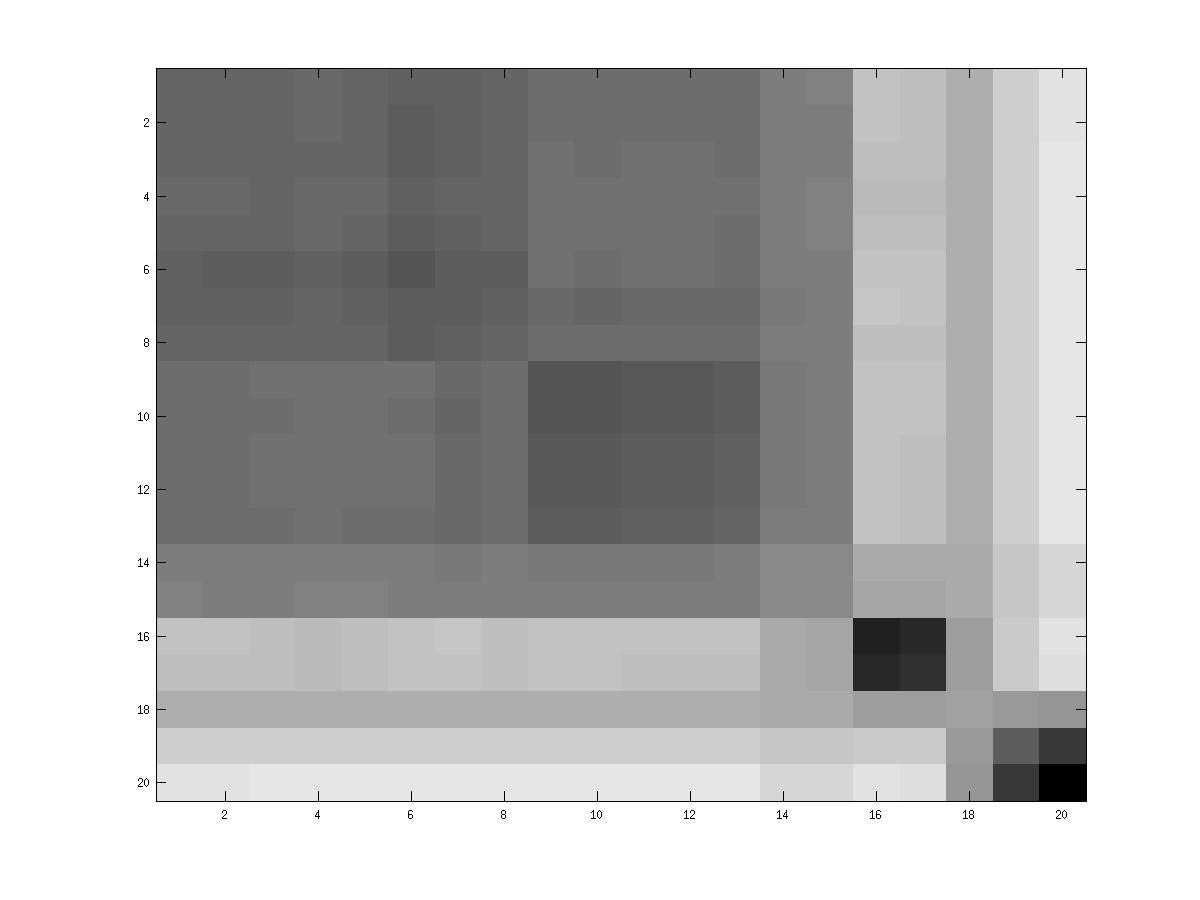
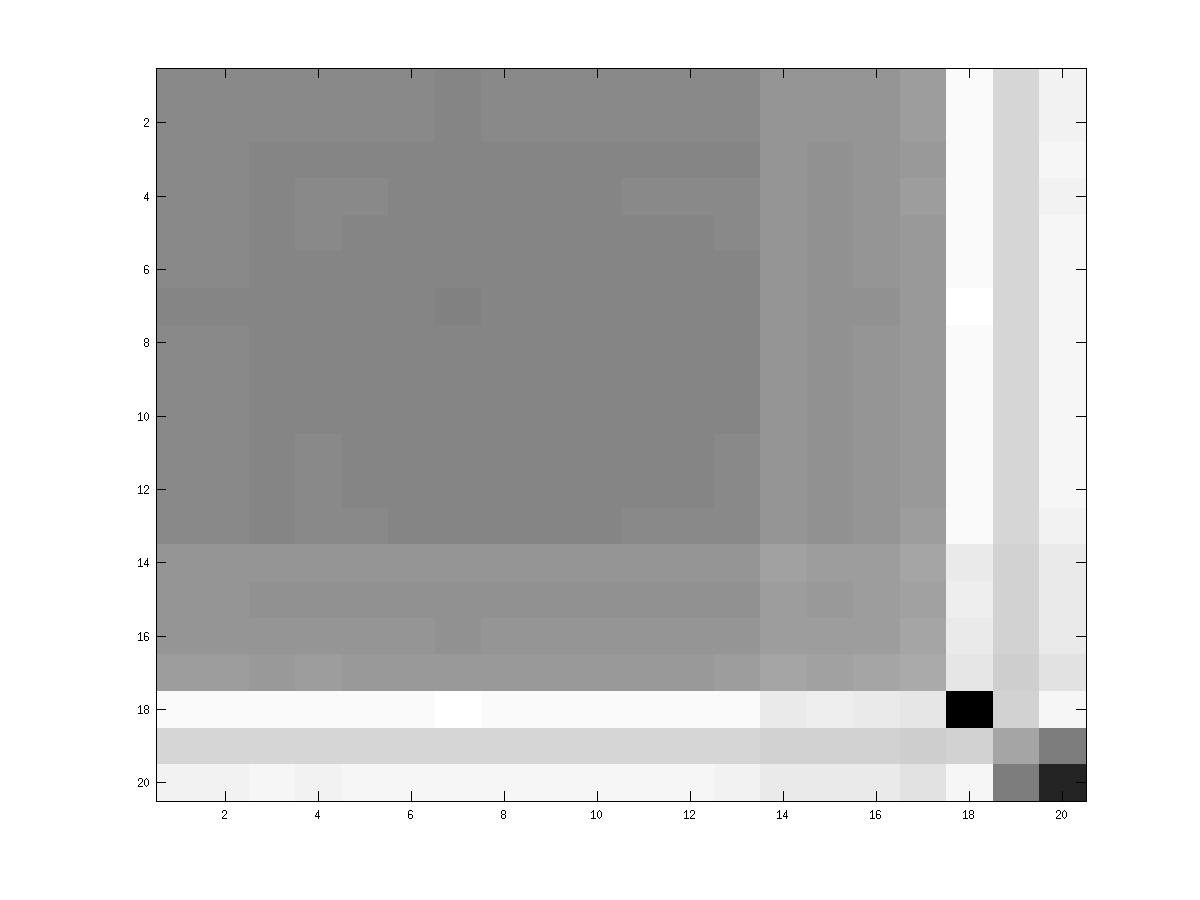
update

diff --git a/Functions/irfcm.m b/Functions/irfcm.m
@@ -116,7 +116,7 @@ function output = irfcm(R, c, options)
         %%%%%%%%%%%%%%%%%%%%%%%%%%%%%%%%%%%%%%%%%%%%%%%%%%%%%%%%%%%%%%%%%%%
         j = find(d(:) < 0);
         if ~isempty(j)
-           output.Error = sprintf('RFCM encountered %d negative relational distances in iteration %d. RFCM terminated execuation.\nPlease re-run iRFCM and provide Delta to Euclideanize D before clustering\n\n', length(j), numIter); 
+           output.Error = sprintf('RFCM encountered %d negative relational distances in iteration %d. RFCM terminated execution.\nPlease re-run iRFCM and provide Delta to Euclideanize D before clustering\n\n', length(j), numIter); 
            return;
         end
         

diff --git a/demo_3g.m b/demo_3g.m
@@ -3,9 +3,9 @@ clear
 close all
 
 %generate 3 gaussian clouds
-a=normrnd(repmat([1,1],10000,1), 1);
-b=normrnd(repmat([1,5],10000,1), 1);
-c=normrnd(repmat([4,3],10000,1), 1);
+a=normrnd(repmat([1,1],5,1), 1);
+b=normrnd(repmat([1,5],5,1), 1);
+c=normrnd(repmat([4,3],5,1), 1);
 data = [a;b;c];
 
 %compute the squared relational matrix
